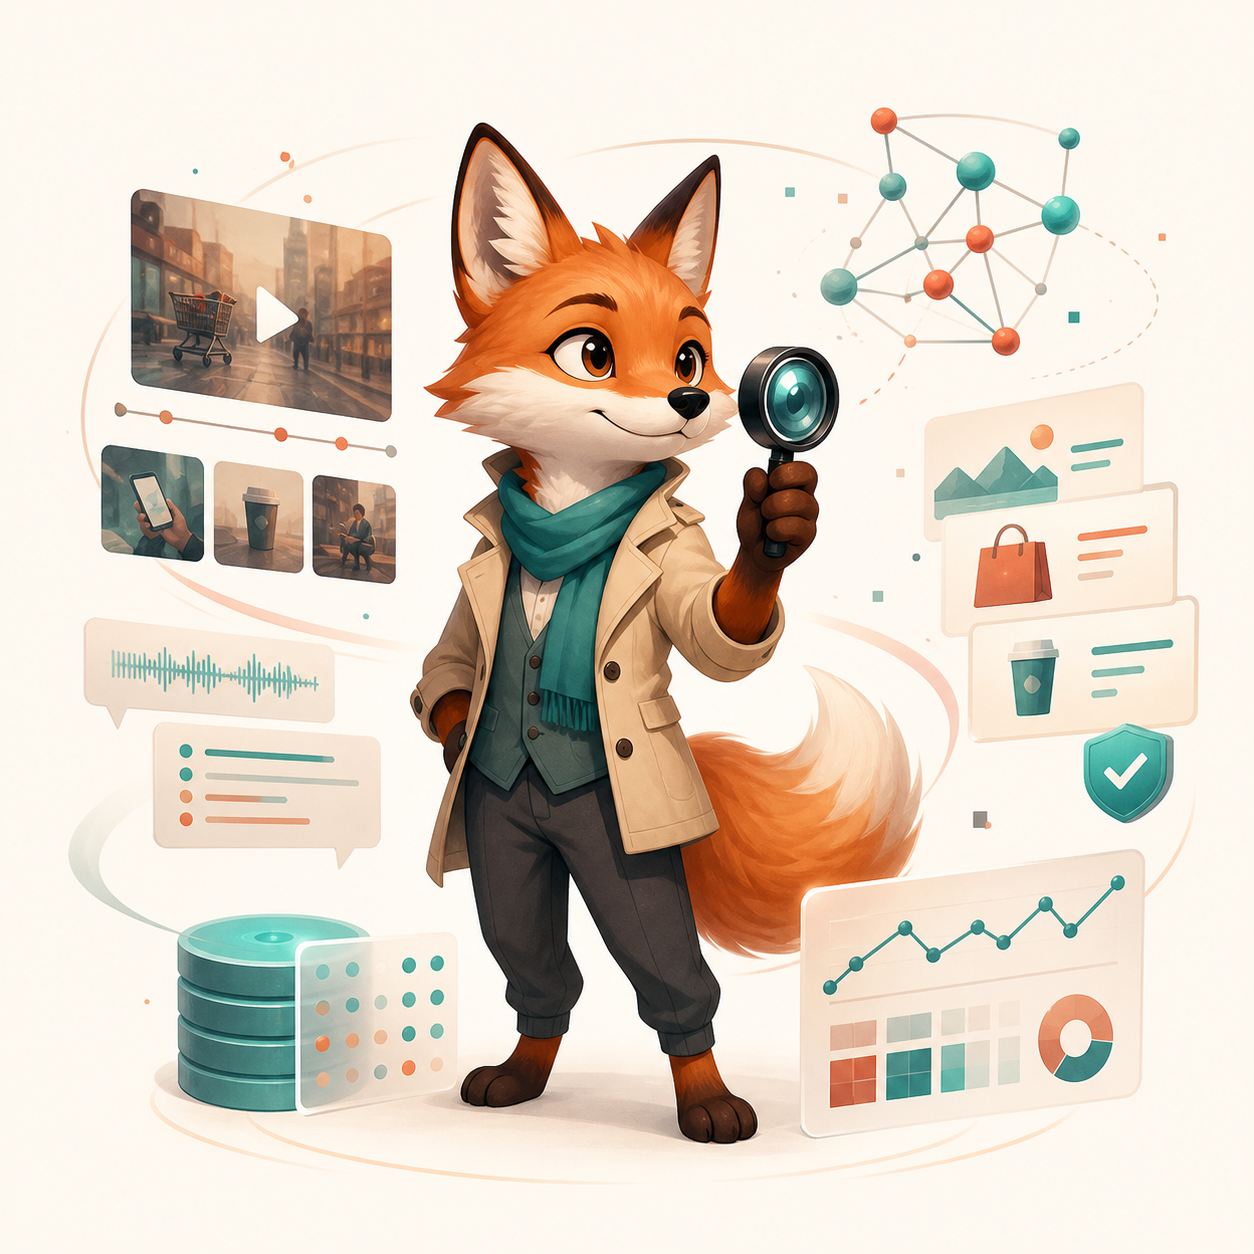
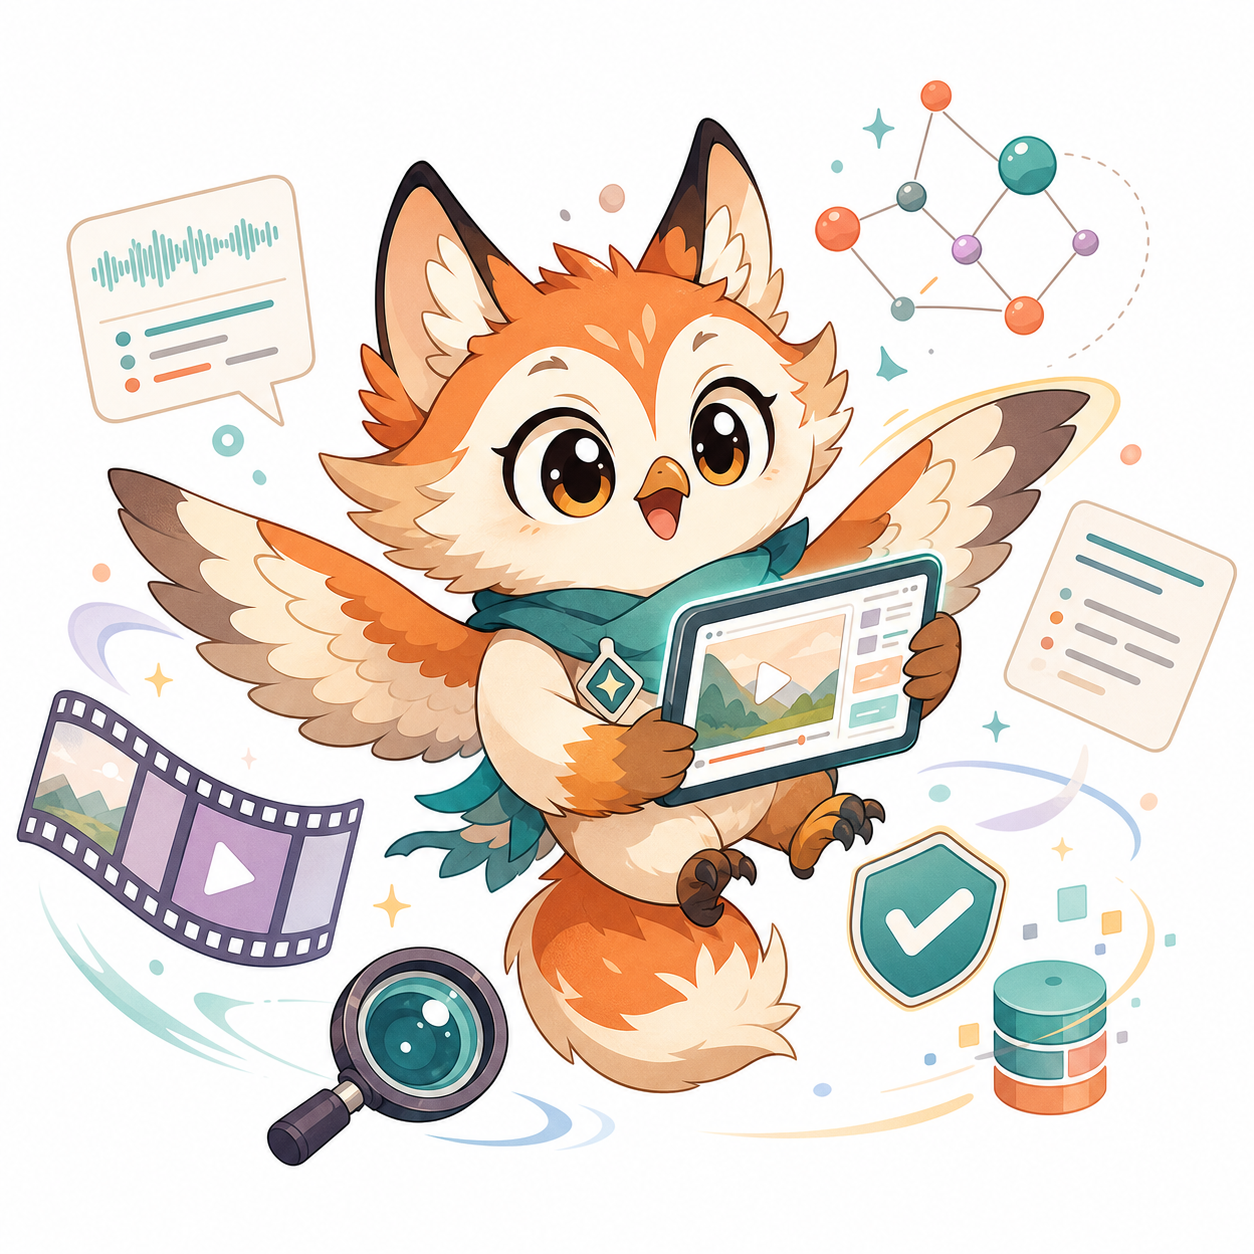
Refresh README visuals

diff --git a/readme.md b/readme.md
@@ -6,9 +6,55 @@
   <img src="assets/admir-mascot.png" alt="AD-MIR mascot" width="320">
 </p>
 
-AD-MIR is a tool-grounded video reasoning framework for advertising understanding. It builds a structured multimodal memory from ad videos, routes questions through a ReAct-style controller, invokes an advertising communication expert, and verifies concrete visual/OCR/ASR anchors before producing a concise answer.
+<p align="center">
+  <em>From pixels to persuasion: AD-MIR turns ad videos into auditable evidence trails.</em>
+</p>
+
+AD-MIR is a tool-grounded video reasoning framework for advertising understanding. Instead of answering from a single pass over frames, it builds structured multimodal memory, retrieves relevant evidence, asks a communication expert to reason about persuasive intent, and verifies concrete visual/OCR/ASR anchors before producing a concise answer.
 
 This repository is the public, provider-neutral implementation. It does **not** include private API keys, local server paths, model weights, AdsQA videos, or generated evaluation outputs.
+
+## Why AD-MIR?
+
+Advertising videos are engineered to imply more than they literally show: product claims appear in tiny text, emotional appeals unfold across edits, and the real answer often depends on connecting a visual object to a persuasion strategy. AD-MIR makes that reasoning explicit.
+
+- **Structured memory:** converts videos into caption, ASR, subject-registry, and retrieval-ready evidence.
+- **Tool-grounded reasoning:** combines global browsing, clip search, frame inspection, and expert interpretation.
+- **Visual-anchor verification:** checks concrete claims against retrieved or inspected evidence before finalizing.
+- **Auditable traces:** records tool calls and observations so answers can be inspected after inference.
+
+## Visual Tour
+
+### Reasoning Workflow
+
+<p align="center">
+  <img src="assets/figure1-workflow.png" alt="AD-MIR reasoning workflow" width="900">
+</p>
+
+AD-MIR first builds browse-based context and a high-level advertising narrative, then zooms into precise clips and frames when the answer depends on literal visual evidence.
+
+### System Architecture
+
+<p align="center">
+  <img src="assets/figure2-architecture.png" alt="AD-MIR architecture" width="900">
+</p>
+
+The system couples a ReAct controller with a shared multimodal database and four interaction tools: Global Browse, Communication Expert, Clip Search, and Frame Inspect.
+
+### Real AdsQA Case Trajectories
+
+<p align="center">
+  <img src="assets/case-gallery.png" alt="AD-MIR qualitative case gallery" width="900">
+</p>
+
+The cases above are real AdsQA examples from the paper. Each card shows retrieved or inspected frames, the question, the ground-truth answer, AD-MIR's answer, and the evidence trace used to support the final response.
+
+<p align="center">
+  <img src="assets/tool-grounding-cases.png" alt="AD-MIR tool grounding cases" width="440">
+  <img src="assets/intent-reasoning-cases.png" alt="AD-MIR intent reasoning cases" width="440">
+</p>
+
+Tool-grounding cases emphasize literal verification, while intent-reasoning cases show how visual evidence and OCR/ASR cues support higher-level advertising interpretation.
 
 ## What Is Inside
 
